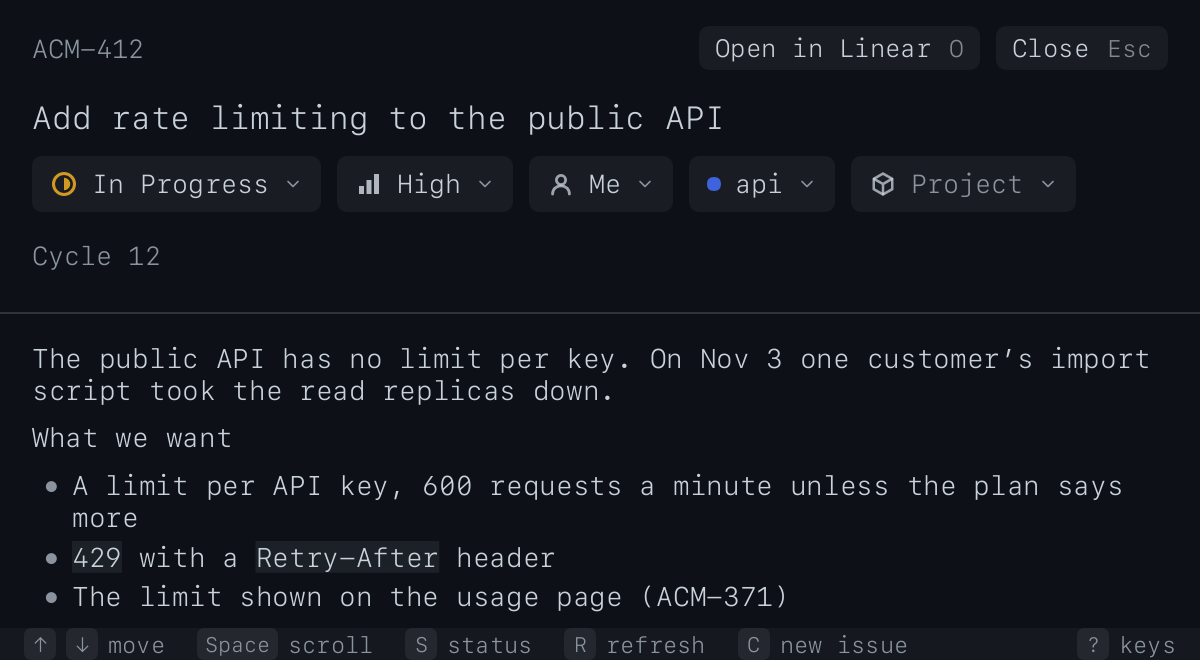
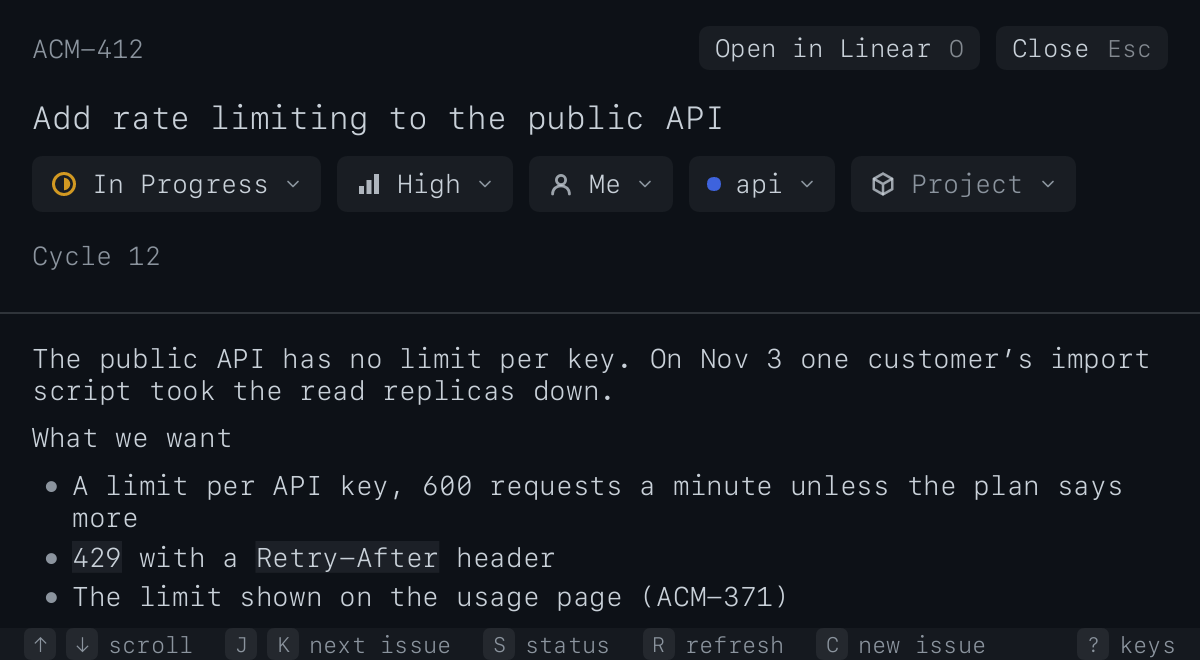
Where the issue has the whole pane, let the arrows scroll it and j and k step between issues, so no key moves in a list that is not on the page

Changed region(s): [[0.0925, 0.9697, 0.8325, 1.0]]

diff --git a/src/program/page_tests.rs b/src/program/page_tests.rs
@@ -2869,3 +2869,118 @@ fn after_tab_enter_presses_the_control_and_a_command_gives_the_keyboard_back() {
         .unwrap_or_else(|why| panic!("enter opens the issue: {why:?}: {}", said(&page)));
     assert!(!page.says("ACM-417"), "the scope stays: {}", said(&page));
 }
+
+// --- The issue alone in a narrow pane -----------------------------------------------------------------
+// Where the pane is too narrow for the list beside the issue, the issue has the pane and the list is
+// not on the page: the arrows scroll what is read, j and k go to the issue after and the one before,
+// and no key does something to a line that is not shown.
+
+#[test]
+#[ignore = "opens the kit's interpreter: make test-page"]
+fn in_a_narrow_pane_the_arrows_scroll_the_issue_and_j_and_k_go_to_the_next_issue() {
+    let (_linear, _session, mut page) = open_lists(PANE);
+    open_the_issue(&mut page);
+    page.advance(0.4).expect("a moment");
+    let top = |page: &Page| page.bounds("panel-comments").map(|at| at.y);
+    let before = top(&page).expect("the comments are laid out");
+    // Down scrolls the issue that is read, and it is still that issue.
+    page.press("down").expect("down");
+    page.advance(0.6).expect("a moment");
+    page.wait_for(WITHIN, |page| top(page).is_some_and(|y| y < before - 1.0))
+        .unwrap_or_else(|why| panic!("down scrolls the issue: {why:?}: {:?}", top(&page)));
+    assert!(
+        page.says("ACM-412"),
+        "it is the same issue: {}",
+        said(&page)
+    );
+    page.press("up").expect("up");
+    page.advance(0.6).expect("a moment");
+    page.wait_for(WITHIN, |page| {
+        top(page).is_some_and(|y| (y - before).abs() < 1.0)
+    })
+    .unwrap_or_else(|why| panic!("up scrolls it back: {why:?}: {:?}", top(&page)));
+    // The line of keys says what the keys do here.
+    assert!(page.says("scroll"), "{}", said(&page));
+    assert!(page.says("next issue"), "{}", said(&page));
+    assert!(!page.says("move"), "{}", said(&page));
+    // j goes to the issue after, k to the one before; a group's head is never where it stops.
+    page.press("j").expect("j");
+    page.wait_for(WITHIN, |page| page.says("ACM-398") && !page.says("ACM-412"))
+        .unwrap_or_else(|why| panic!("j goes to the next issue: {why:?}: {}", said(&page)));
+    page.press("k").expect("k");
+    page.wait_for(WITHIN, |page| page.says("ACM-412") && !page.says("ACM-398"))
+        .unwrap_or_else(|why| panic!("k goes to the one before: {why:?}: {}", said(&page)));
+    for identifier in [
+        "ACM-398", "ACM-405", "ACM-377", "ACM-389", "ACM-371", "ACM-420",
+    ] {
+        page.press("j").expect("j");
+        page.wait_for(WITHIN, |page| page.says(identifier))
+            .unwrap_or_else(|why| panic!("j comes to {identifier}: {why:?}: {}", said(&page)));
+    }
+    // k at the first issue stays on it.
+    for _ in 0..8 {
+        page.press("k").expect("k");
+        page.advance(0.1).expect("a moment");
+    }
+    page.wait_for(WITHIN, |page| page.says("ACM-412"))
+        .unwrap_or_else(|why| panic!("k ends at the first issue: {why:?}: {}", said(&page)));
+}
+
+#[test]
+#[ignore = "opens the kit's interpreter: make test-page"]
+fn in_a_narrow_pane_no_key_does_something_to_a_line_that_is_not_shown() {
+    let (_linear, _session, mut page) = open_lists(PANE);
+    open_the_issue(&mut page);
+    page.advance(0.4).expect("a moment");
+    // x would select a line, Shift and an arrow more of them, 2 would show another list, the
+    // arrows left and right would fold a group: none of it is on the page.
+    for keys in ["x", "shift+down", "2", "left", "/"] {
+        let _ = page.press(keys);
+        page.advance(0.3).expect("a moment");
+    }
+    assert!(
+        page.says("ACM-412"),
+        "the issue is still the one read: {}",
+        said(&page)
+    );
+    page.press("escape").expect("escape closes the issue");
+    page.wait_for(WITHIN, |page| page.bounds("panel-close").is_none())
+        .expect("the issue is closed");
+    page.advance(0.4).expect("a moment");
+    assert!(
+        !page.says("selected"),
+        "nothing was selected: {}",
+        said(&page)
+    );
+    assert!(
+        !page.says("ACM-417"),
+        "the scope is the same: {}",
+        said(&page)
+    );
+    assert!(page.says("ACM-398"), "no group was folded: {}", said(&page));
+}
+
+#[test]
+#[ignore = "opens the kit's interpreter: make test-page"]
+fn in_a_narrow_pane_a_change_is_of_the_issue_read_and_not_of_the_ones_selected() {
+    let (_linear, _session, mut page) = open_lists(PANE);
+    page.press("x").expect("x");
+    page.press("shift+down").expect("shift and down");
+    page.press("shift+down").expect("shift and down");
+    page.wait_for(WITHIN, |page| page.says("3 selected"))
+        .unwrap_or_else(|why| panic!("three are selected: {why:?}: {}", said(&page)));
+    open_the_issue_under_the_cursor(&mut page);
+    let entries = menu_after(&mut page, "s");
+    assert!(
+        !entries.iter().any(|(title, _)| title.contains("3 issues")),
+        "the menu is of the issue read: {entries:?}"
+    );
+}
+
+/// Opens the issue under the cursor with Enter, whichever it is.
+fn open_the_issue_under_the_cursor(page: &mut Page) {
+    page.press("enter").expect("enter");
+    page.wait_for(WITHIN, |page| page.bounds("panel-close").is_some())
+        .unwrap_or_else(|why| panic!("the issue opens: {why:?}: {}", said(page)));
+    page.advance(0.4).expect("a moment");
+}

diff --git a/CHANGELOG.md b/CHANGELOG.md
@@ -15,7 +15,9 @@
   description (as markdown, with its links opening only where you press them), the comments oldest
   first, the cycle, the project and who it is assigned to. `Open in Linear` (`o`) opens it in your
   browser and `Close` (`Esc`) puts it away; the panel follows the cursor, asks Linear once for each
-  issue, and takes the whole of a pane too narrow for both. Space and Shift Space scroll an issue
+  issue, and takes the whole of a pane too narrow for both. There the list is not on the page, so the arrows
+  scroll the issue, `j` and `k` go to the issue after and the one before, and no key does something
+  to a line that is not shown. Space and Shift Space scroll an issue
   longer than its room, and Enter in the filter opens the issue the cursor is on.
 - **Select issues.** `x` or the box of a line selects it, Shift with the arrows selects more, and
   `Cmd A` selects every issue that is shown. `Esc` closes what is on top: the issue, then the

diff --git a/README.md b/README.md
@@ -43,7 +43,8 @@ The list is **My issues** (what is assigned to you) or **All issues** (the open 
 each saying whose it is), grouped by state with the backlog folded, and asked of Linear again every
 five minutes. `/` filters it by title, identifier or label. Enter opens an issue beside the list
 (from the filter too), with its description, its comments, its cycle, its project and who has it;
-Space scrolls it, and `Open in Linear` puts it in your browser. In a pane too narrow for both, the issue takes the pane.
+Space scrolls it, and `Open in Linear` puts it in your browser. In a pane too narrow for both, the issue takes the pane:
+there the arrows scroll it, and `j` and `k` go to the issue after and the one before.
 
 ### A new issue
 
